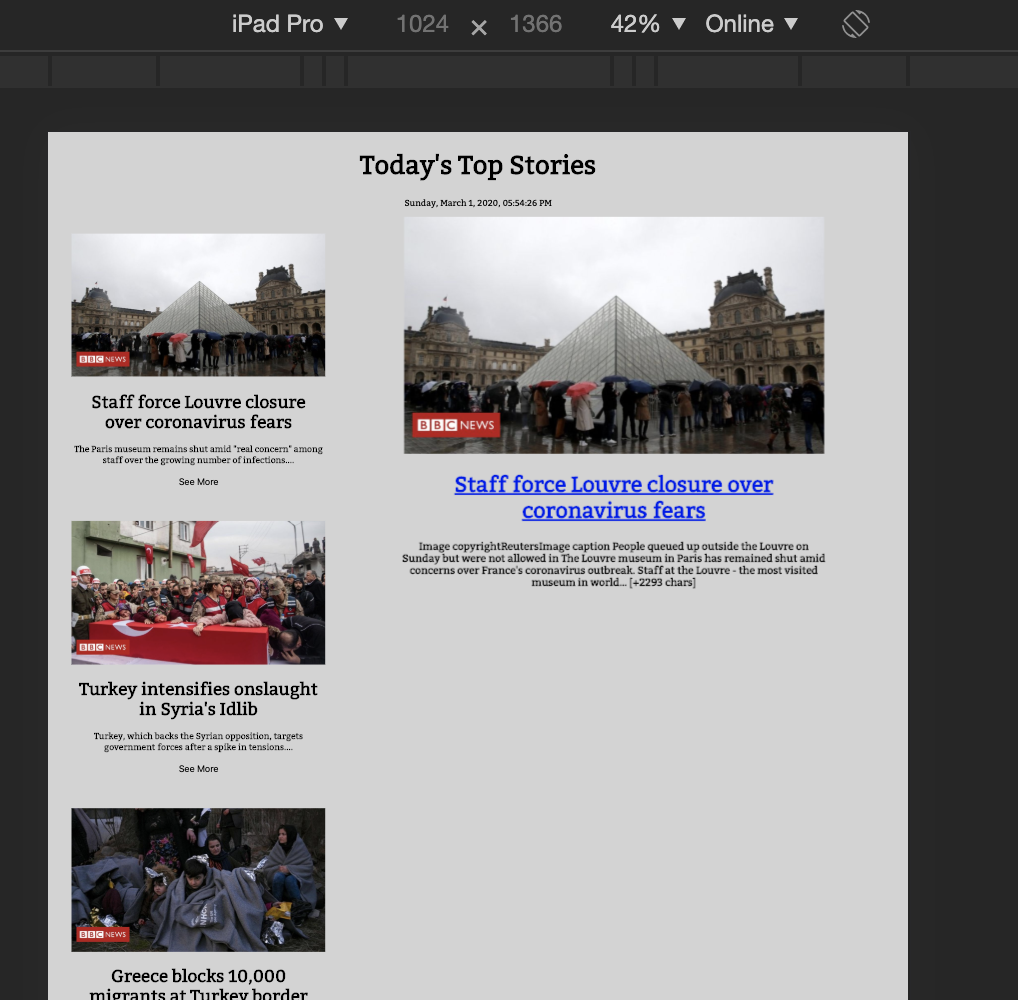
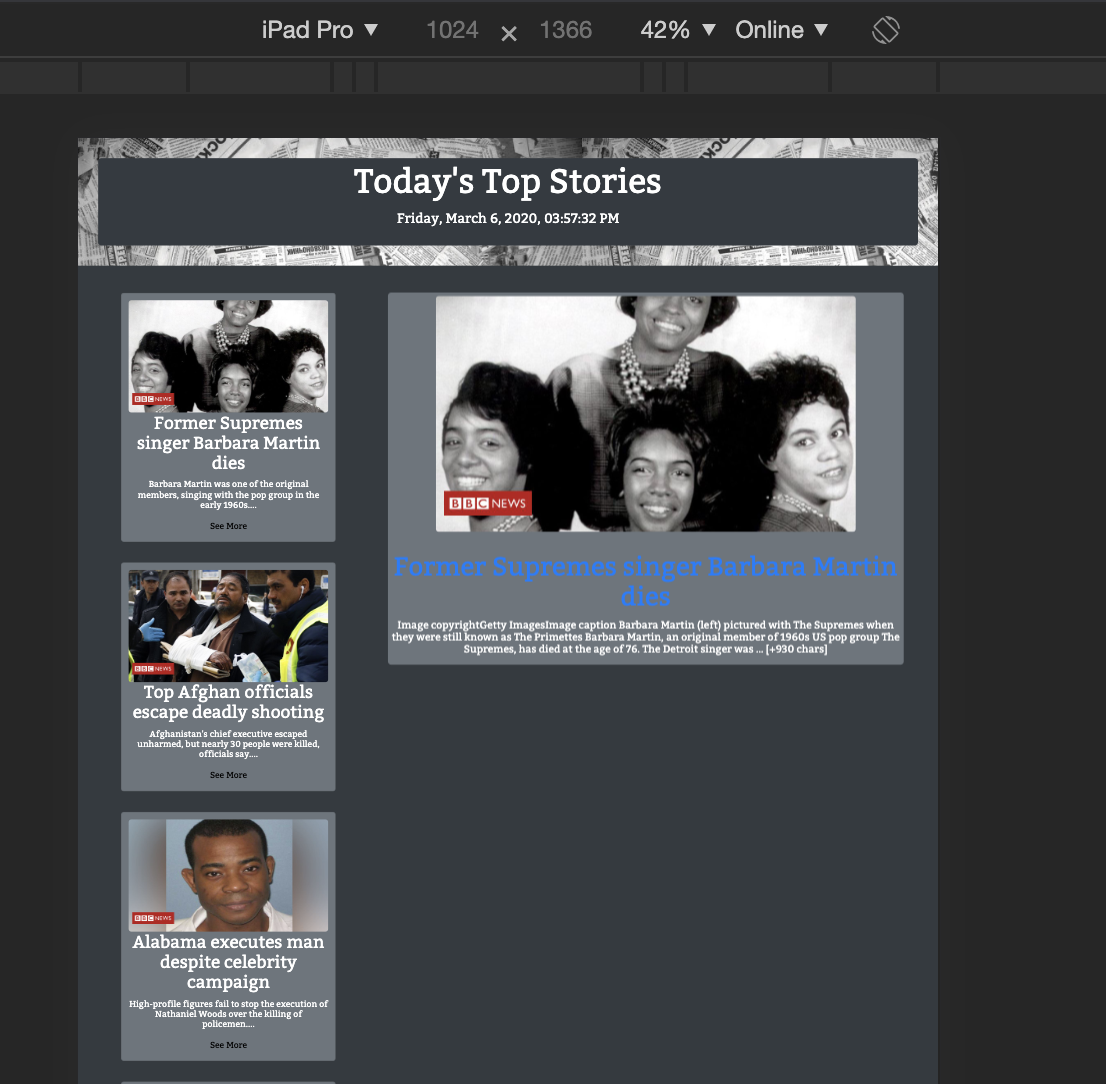
Updated w/boostrap pics

diff --git a/allArticles.js b/allArticles.js
@@ -12,7 +12,8 @@ function getArticles(){
           return response.json();
       }).then((data) => {
       data.articles.forEach(function(article, index){
-            output.innerHTML += "<div class = 'card bg-secondary p-2'><img class ='rounded mx-auto d-block' id = articleImage1 src="+`${imageUrl(article.urlToImage)}`+"></img>"+
+            output.innerHTML += "<div class = 'card bg-secondary p-2'><img class ='rounded mx-auto d-block' id = 'articleImage1'" +
+                                "src="+`${imageUrl(article.urlToImage)}`+"></img>"+
                                 "<h1 class = 'text-center' id = 'sidebarTitle'> " +`${article.title}`+"</a></h1>" +
                                 "<h2 class = 'text-center' id = 'sidebarArticle'>"+ `${article.description.substring(0, 100)}`+"... </h2>"+
                                 "<button id='btn' onclick ='readArticle("+`${index}` +");'> See More </button>" + 
@@ -31,9 +32,10 @@ function readArticle(index){
     .then((response) =>{
         return response.json();
     }).then((data) => {
-    output2.innerHTML = "<center><div class = 'bg-secondary rounded p-1'><img class ='rounded' id='articleImage2' src="+`${imageUrl(data.articles[index].urlToImage)}`+"></img>"+
-                        "<br><br><p id = 'title2'><a href="+ `${data.articles[index].url}`+">"+
-                        `${data.articles[index].title}`+"</a></p>"+
+    output2.innerHTML = "<center><div class = 'bg-secondary rounded p-1 mx-auto'><img class ='rounded' id='articleImage2'"+
+                        "src="+`${imageUrl(data.articles[index].urlToImage)}`+"></img>"+
+                        "<br><br><h1 id ='title2'><a href="+ `${data.articles[index].url}`+">"+
+                        `${data.articles[index].title}`+"</a></h1>"+
                         "<h4 id='article'>" + `${data.articles[index].content}`+"<h4></div></center>"
   })
 }

diff --git a/styles.css b/styles.css
@@ -37,10 +37,10 @@
 }
 
 /* Selected Article Code */
-
 #articleContainer {
     position: fixed; 
-    width:100%; 
+    width:120%; 
+    float: right;
     overflow: auto;
     z-index:-1;
 }
@@ -49,10 +49,12 @@
      float:right;
      width: 70%; 
      margin-right: 10%;
+     margin-left: 10%;
      padding-left:10%; 
      padding-right:10%;
      padding-bottom: 5%;
      overflow: auto;
+     position: sticky
 }
 
 #articleImage2 {
@@ -62,7 +64,7 @@
 }
 
 #title2 {
-    font-size:2vw
+    padding-top: 0;
 }
 
 #article {

diff --git a/news.html b/news.html
@@ -19,11 +19,9 @@
         </div>
 
         <div id="output"></div>
-        <div class = "container">
-        <div id = 'articleContainer'>
+        <div class = 'mx-auto' id = 'articleContainer'>
           <div id='output2'></div>
         </div> 
-    </div>
   </body>
 
 
